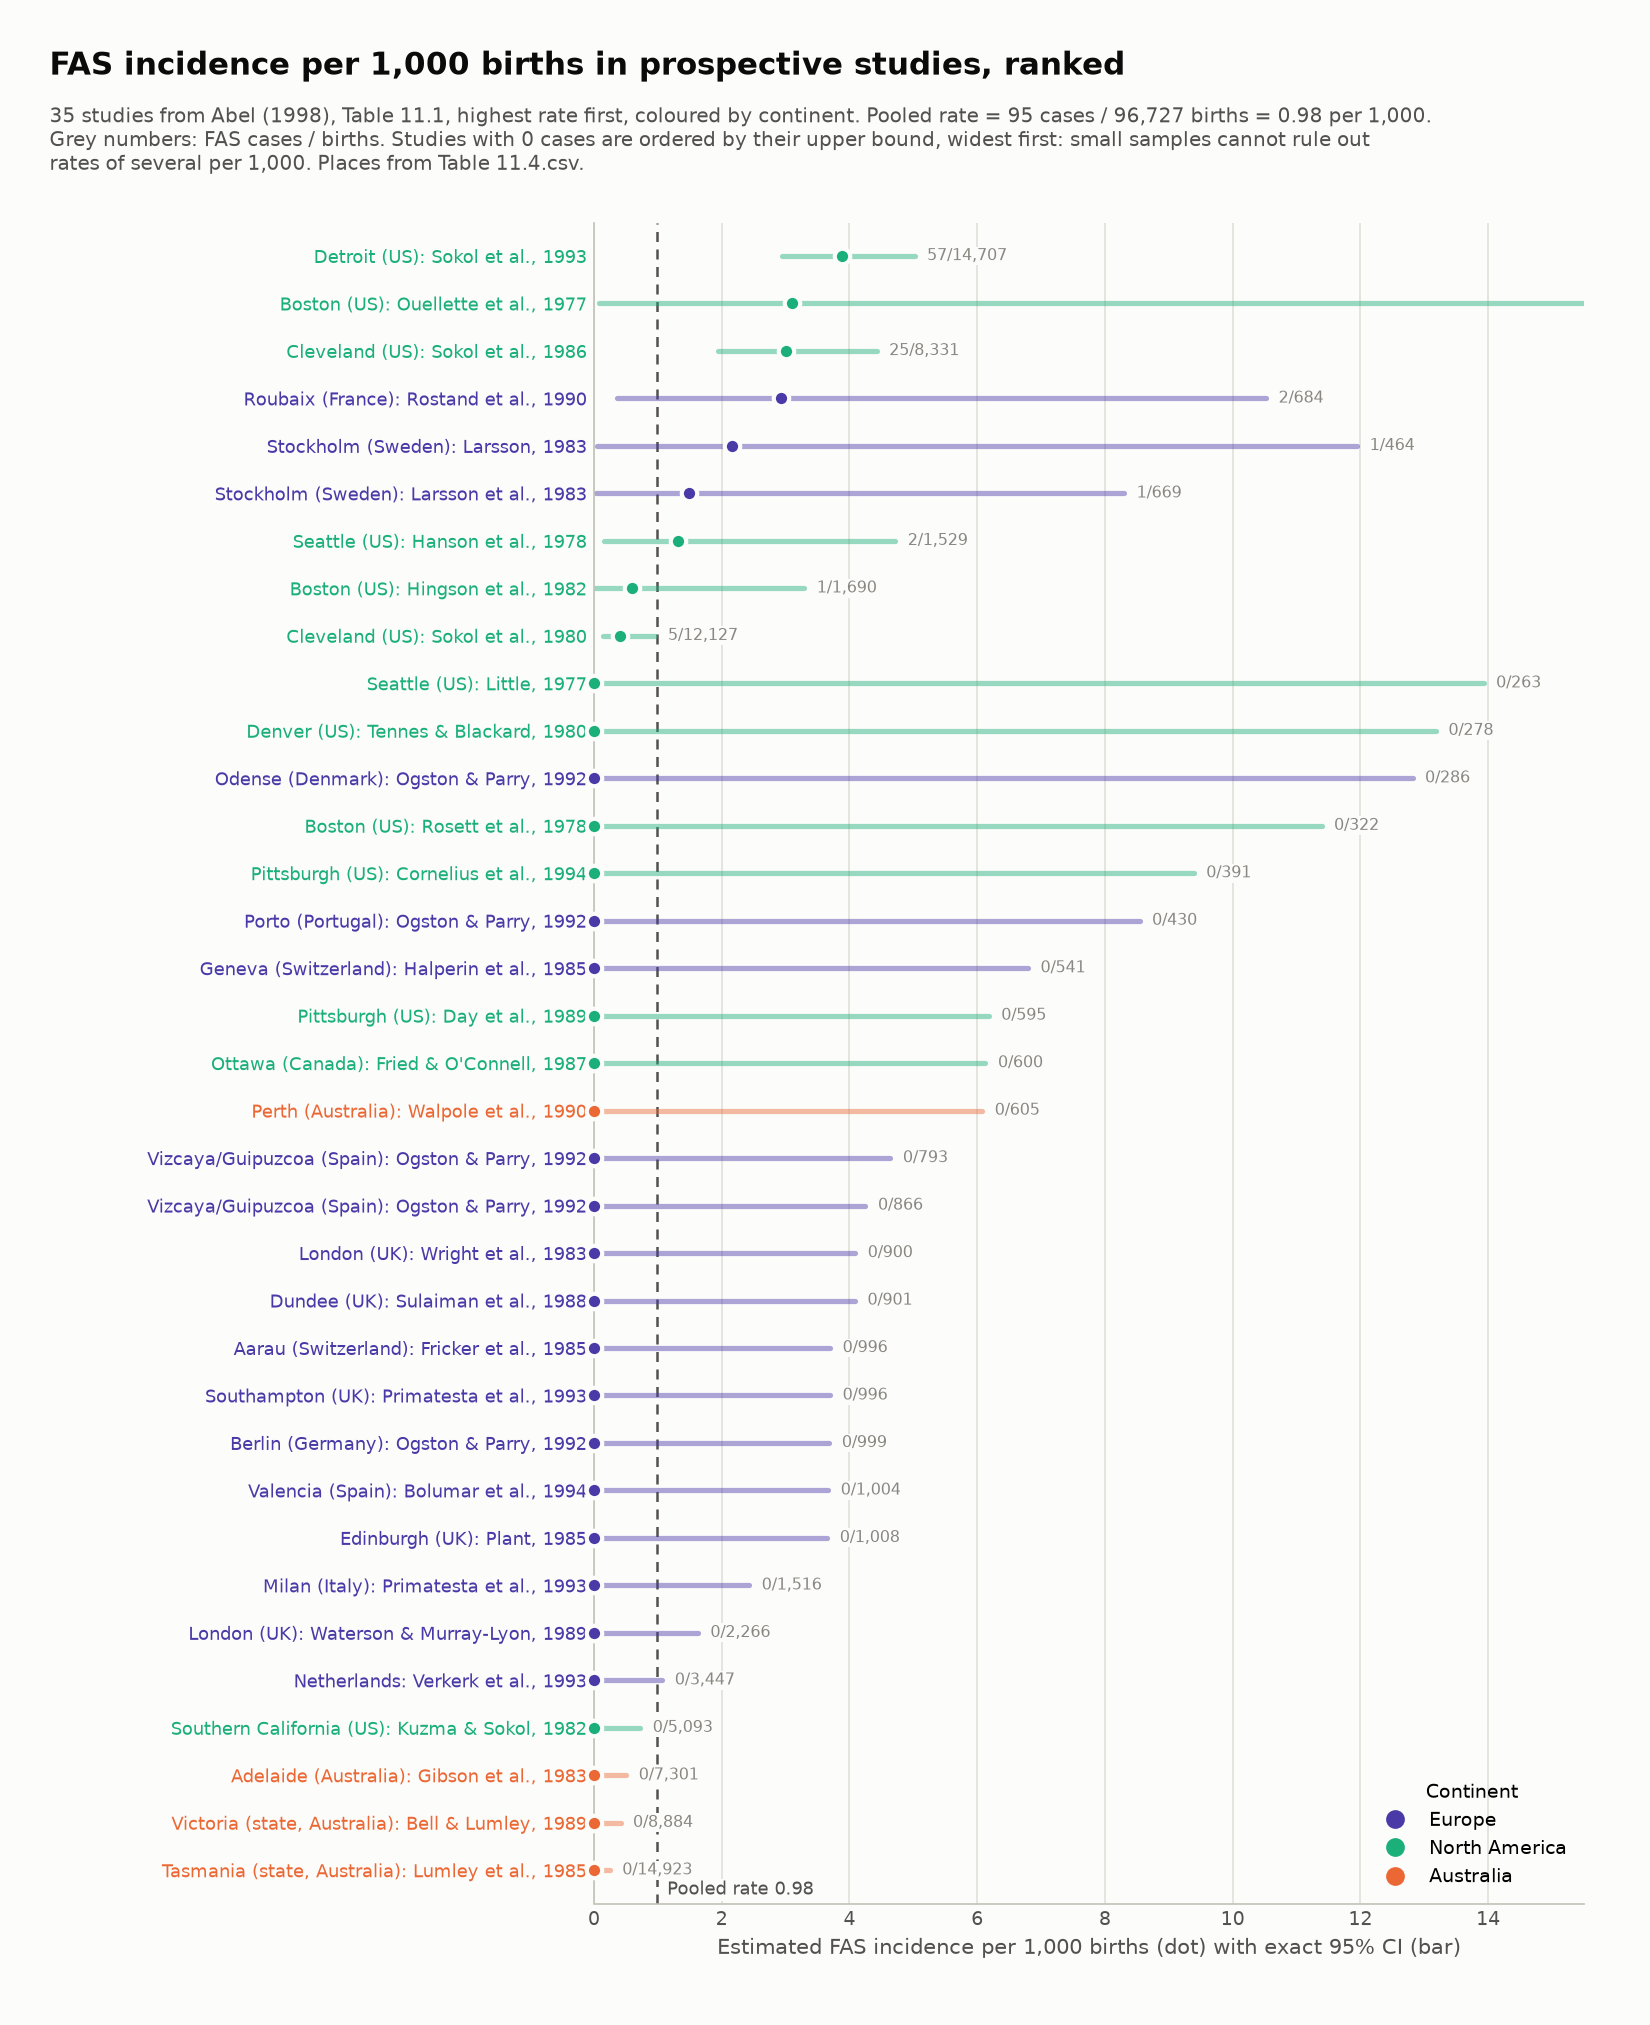
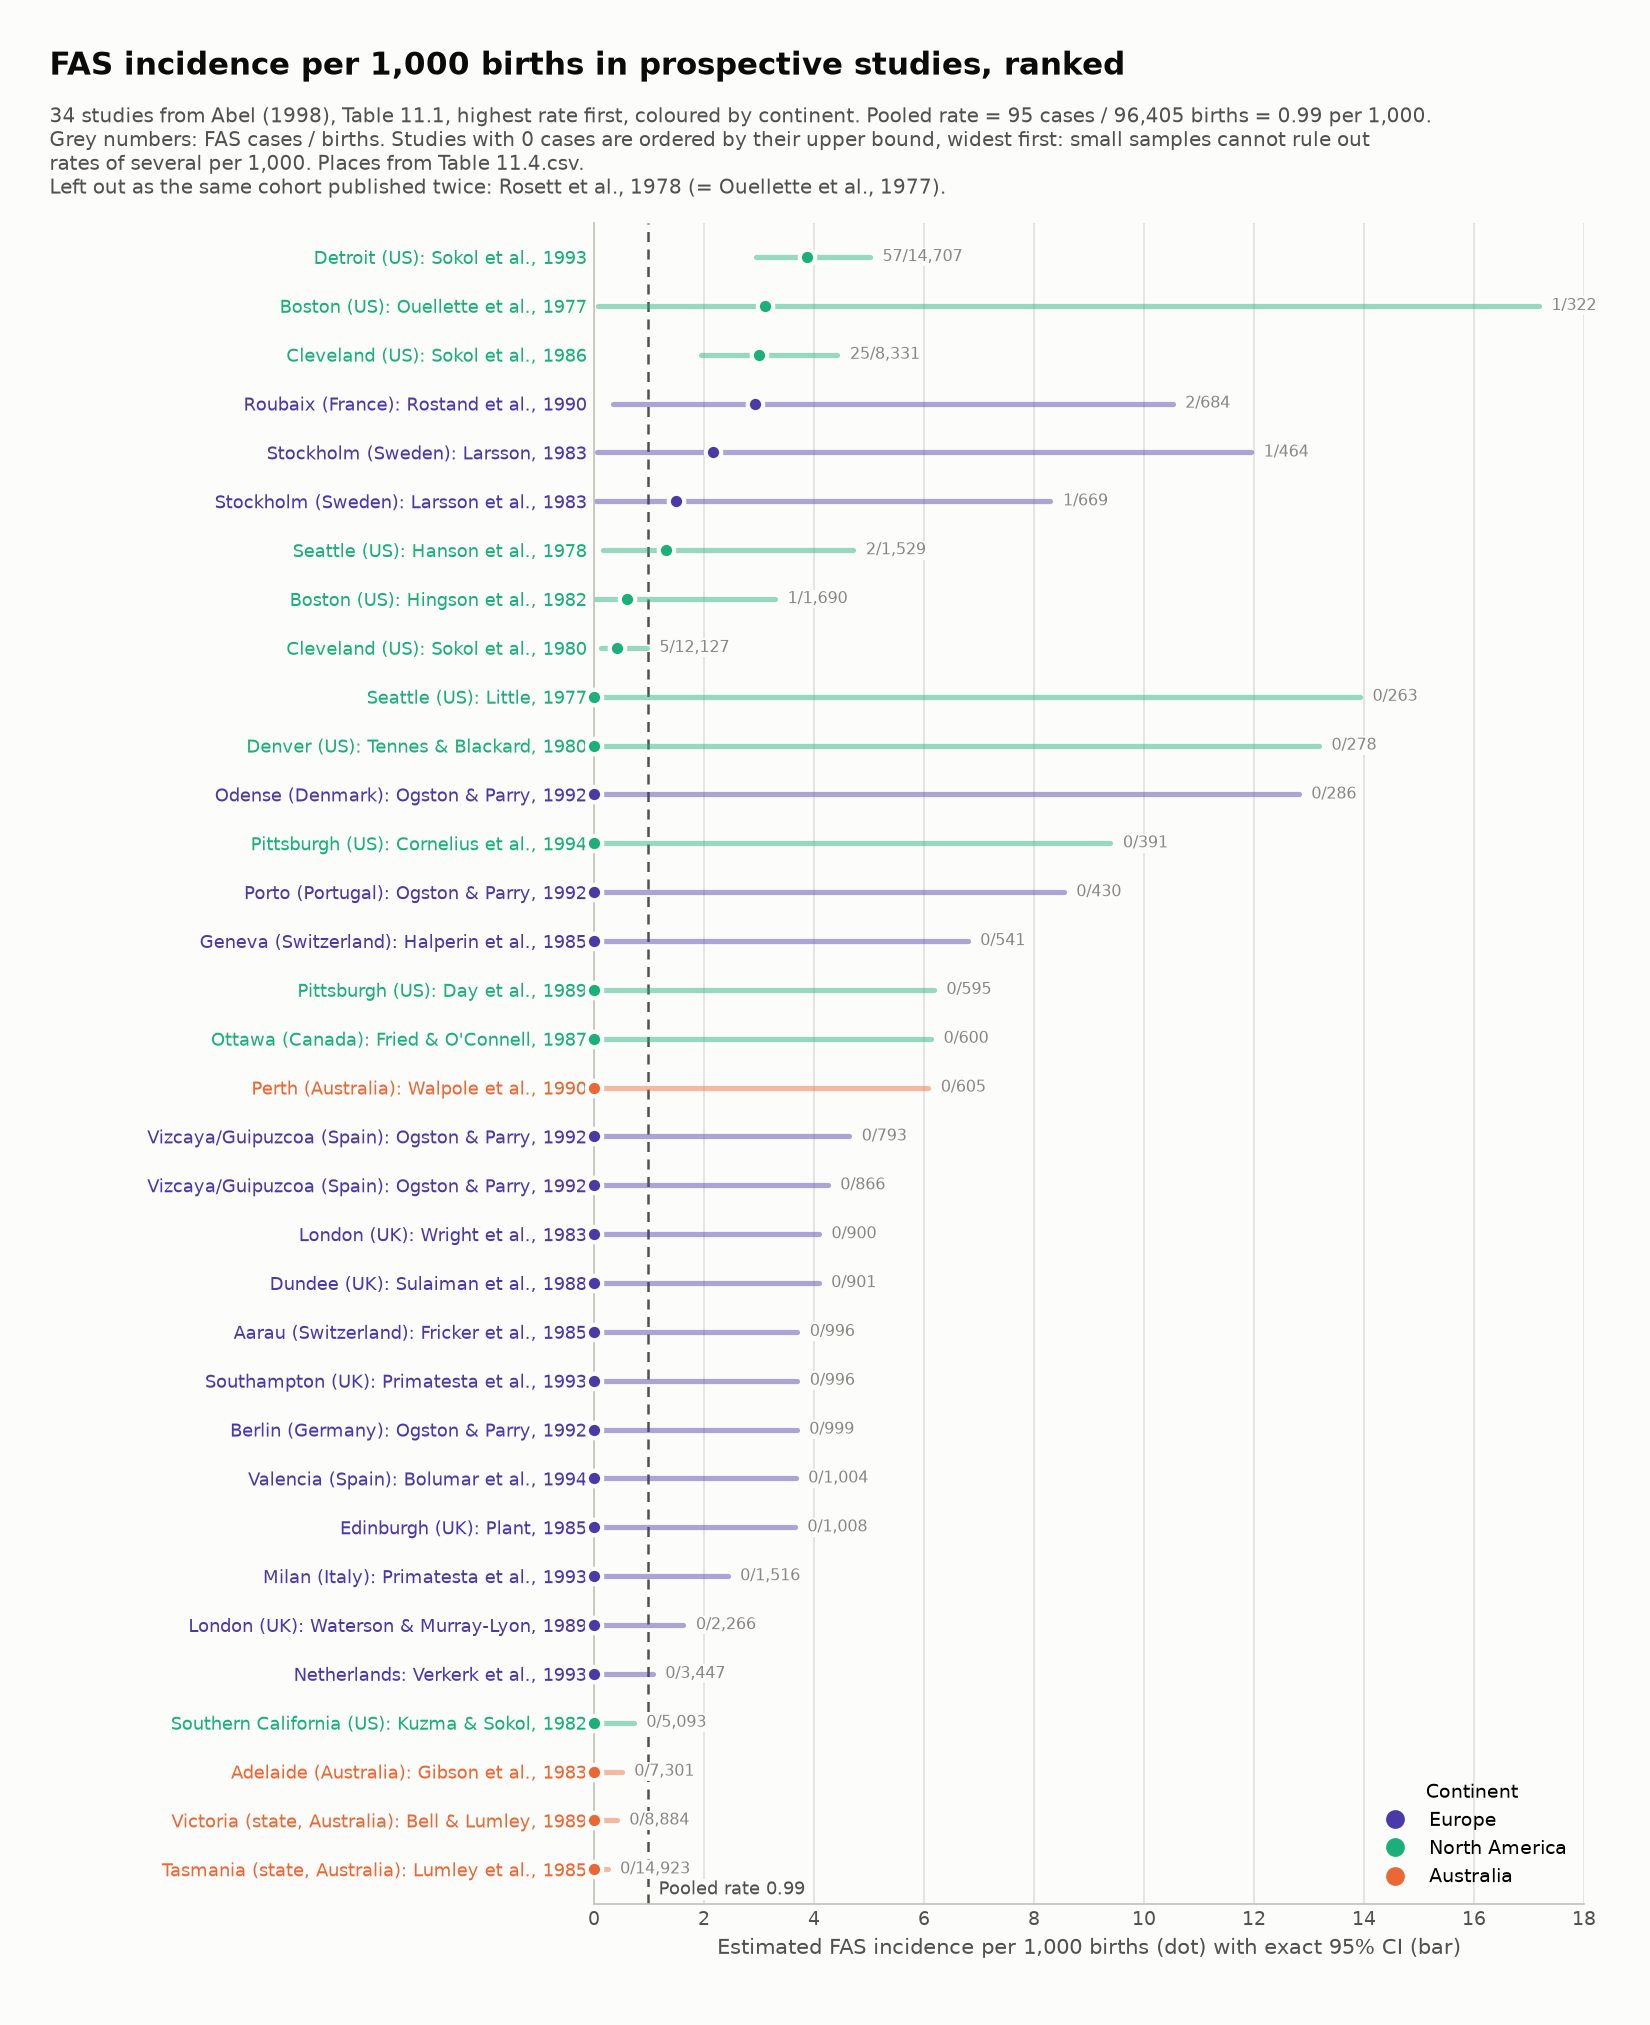
Rosett 1978 is the Ouellette 1977 cohort: mark as duplicate, drop from pooling and charts
Adds a 'Duplicate of' column to Table 11.1.csv; load_studies() skips such rows
and the Table 11.1 charts footnote them. 34 studies, 95 / 96,405 births.

diff --git a/scripts/fas_ascertainment_table.py b/scripts/fas_ascertainment_table.py
@@ -54,7 +54,9 @@ def load():
         s["ascertainment"] = c["Ascertainment"]
         s["confidence"] = c["Confidence"]
         s["region"] = pooled.region_of(s["country"])
-    assert not any(classes.values()), "unmatched class rows"
+    skipped = {dup for dup, _ in t11.DUPLICATES}
+    left = [k for k, v in classes.items() if v and k[1] not in skipped]
+    assert not left, f"unmatched class rows: {left}"
     return studies
 
 
@@ -99,7 +101,7 @@ def chart_by_study(studies):
         rows.append(("pool", (cls, group)))
 
     fig = plt.figure(figsize=(11, 15), facecolor=fas.SURFACE)
-    ax = fig.add_axes([0.36, 0.055, 0.6, 0.845])
+    ax = fig.add_axes([0.36, 0.055, 0.6, 0.835])
     fas.style_axes(ax)
     ys = np.arange(len(rows))[::-1]
     labels = []
@@ -141,7 +143,7 @@ def chart_by_study(studies):
         else:
             tick.set_color(region_colour(item))
     ax.set_ylim(-0.7, len(rows) - 0.3)
-    ax.set_xlim(0, 15.5)
+    ax.set_xlim(0, 18)
     ax.grid(axis="y", visible=False)
     ax.set_xlabel("Estimated FAS incidence per 1,000 births (dot) with exact 95% CI (bar)",
                   color=fas.INK_2, fontsize=10)
@@ -153,7 +155,7 @@ def chart_by_study(studies):
                f"({n_ver} classified from the papers, {len(studies) - n_ver} not yet checked).\n"
                + CLASS_DESC["Yes"] + ".\n" + CLASS_DESC["No"] + ".\n"
                "Diamonds: pooled rate per group = all cases / all births. Grey numbers: cases / births. "
-               "Classification and evidence in 'Table 11.1 - FAS ascertainment.csv'.")
+               "Classification and evidence in 'Table 11.1 - FAS ascertainment.csv'.\n" + t11.duplicates_note())
     fig.savefig(OUT_BY_STUDY, dpi=150, facecolor=fas.SURFACE)
     plt.close(fig)
     print(f"Saved {OUT_BY_STUDY}")
@@ -223,6 +225,7 @@ def chart_pooled(studies):
              ha="left", va="top", fontsize=9.5, color=fas.INK_2)
     clipped = [r for r in rows if r and r["ci"][1] > xmax]
     fig.text(0.03, 0.025, "Classification and evidence in 'Table 11.1 - FAS ascertainment.csv'. "
+             + t11.duplicates_note() + " "
              + ("CIs running past the axis: " + "; ".join(f'{r["name"]} ({r["studies"]}) to {r["ci"][1]:.2f}'
                                                            for r in clipped) + "." if clipped else ""),
              ha="left", fontsize=8, color=fas.MUTED)

diff --git a/scripts/table_11_1_chart.py b/scripts/table_11_1_chart.py
@@ -46,13 +46,22 @@ def load_places():
     return places
 
 
+DUPLICATES = []  # (study, duplicate of) rows skipped by load_studies()
+
+
 def load_studies():
+    """Studies in Table 11.1, skipping rows marked as a duplicate of another row
+    (the same cohort published twice; see the Corrections column)."""
     places = load_places()
     studies = []
+    DUPLICATES.clear()
     with open(CSV_PATH, newline="", encoding="utf-8") as f:
         for r in csv.DictReader(f):
             if not r["Study (source)"]:
                 continue  # summary rows
+            if r.get("Duplicate of"):
+                DUPLICATES.append((r["Study (source)"], r["Duplicate of"]))
+                continue
             country = r["Country"]
             found = places.get((country, r["Study (source)"]), [])
             place = found.pop(0) if found else r["City"]
@@ -67,6 +76,14 @@ def load_studies():
                 "ci": exact_ci(cases, n),
             })
     return studies
+
+
+def duplicates_note():
+    """Footnote text for rows left out as duplicates of another row."""
+    if not DUPLICATES:
+        return ""
+    return "Left out as the same cohort published twice: " + "; ".join(
+        f"{dup} (= {of})" for dup, of in DUPLICATES) + "."
 
 
 def chart_by_study(studies):
@@ -108,7 +125,7 @@ def chart_by_study(studies):
             tick.set_fontweight("bold")
             tick.set_color(INK)
     ax.set_ylim(-0.7, len(rows) - 0.3)
-    ax.set_xlim(0, 15.5)
+    ax.set_xlim(0, 18)
     ax.grid(axis="y", visible=False)
 
     ax.axvline(pooled, color=INK_2, linestyle=(0, (4, 3)), linewidth=1.2, zorder=1)
@@ -122,7 +139,7 @@ def chart_by_study(studies):
                f"{len(studies)} studies from Abel (1998), Table 11.1. Pooled rate = {cases} cases / "
                f"{births:,} births = {pooled:.2f} per 1,000. Grey numbers: FAS cases / births.\n"
                "Studies with 0 cases still have an upper bound: small samples cannot rule out "
-               "rates of several per 1,000.\nPlaces from Table 11.4.csv.")
+               "rates of several per 1,000.\nPlaces from Table 11.4.csv.\n" + duplicates_note())
     fig.savefig(OUT_BY_STUDY, dpi=150, facecolor=SURFACE)
     plt.close(fig)
     print(f"Saved {OUT_BY_STUDY}")

diff --git a/scripts/fas_ranked_chart.py b/scripts/fas_ranked_chart.py
@@ -21,7 +21,7 @@ import table_11_1_chart as t11
 from paths import CHARTS
 OUT_PNG = CHARTS / "Table 11.1 - FAS rate per 1,000 births by study, ranked.png"
 
-XMAX = 15.5
+XMAX = 18
 
 
 def chart(studies):
@@ -79,7 +79,7 @@ def chart(studies):
                f"continent. Pooled rate = {cases} cases / {births:,} births = {overall:.2f} per 1,000.\n"
                "Grey numbers: FAS cases / births. Studies with 0 cases are ordered by their upper "
                "bound, widest first: small samples cannot rule out\nrates of several per 1,000. "
-               "Places from Table 11.4.csv.")
+               "Places from Table 11.4.csv.\n" + t11.duplicates_note())
     fig.savefig(OUT_PNG, dpi=150, facecolor=fas.SURFACE)
     plt.close(fig)
     print(f"Saved {OUT_PNG}")

diff --git a/scripts/fas_vs_drinking_chart.py b/scripts/fas_vs_drinking_chart.py
@@ -230,7 +230,7 @@ def chart(matched, all_studies):
              ha="left", va="top", fontsize=9.5, color=fas.INK_2)
     fig.text(0.03, 0.012,
              "Drinking = any drinking during pregnancy, not heavy drinking. No matching drinking rate: "
-             "Sweden, Switzerland, Canada; Cleveland (Sokol 1980, 1986), Kuzma & Sokol, Rosett, Day, "
+             "Sweden, Switzerland, Canada; Cleveland (Sokol 1980, 1986), Kuzma & Sokol, Day, "
              "Hanson, Little;\nGibson, Walpole; Wright, Plant. Spain's two EUROMAC rows are matched to Vizcaya and "
              "Guipuzcoa by sample size. Odense's sample was selected for drinking; its rate is the "
              "corrected 78% (Abel printed 68%).",

diff --git a/scripts/fas_pooled_chart.py b/scripts/fas_pooled_chart.py
@@ -152,7 +152,7 @@ def chart(rows):
     fig.text(0.03, 0.025, "Rates for the two Larsson studies and Sokol et al., 1993 are recomputed "
              "from cases / births (see Corrections in Table 11.1.csv).\nEurope = all Table 11.1 "
              "countries outside North America and Australia; Finland is not in Table 11.1. Sweden's and Canada's CIs run to 6.36 and 6.13, past the "
-             "edge of the axis.", ha="left", fontsize=8, color=fas.MUTED)
+             "edge of the axis.\n" + t11.duplicates_note(), ha="left", fontsize=8, color=fas.MUTED)
     fig.savefig(OUT_PNG, dpi=150, facecolor=fas.SURFACE)
     plt.close(fig)
     print(f"Saved {OUT_PNG}")
